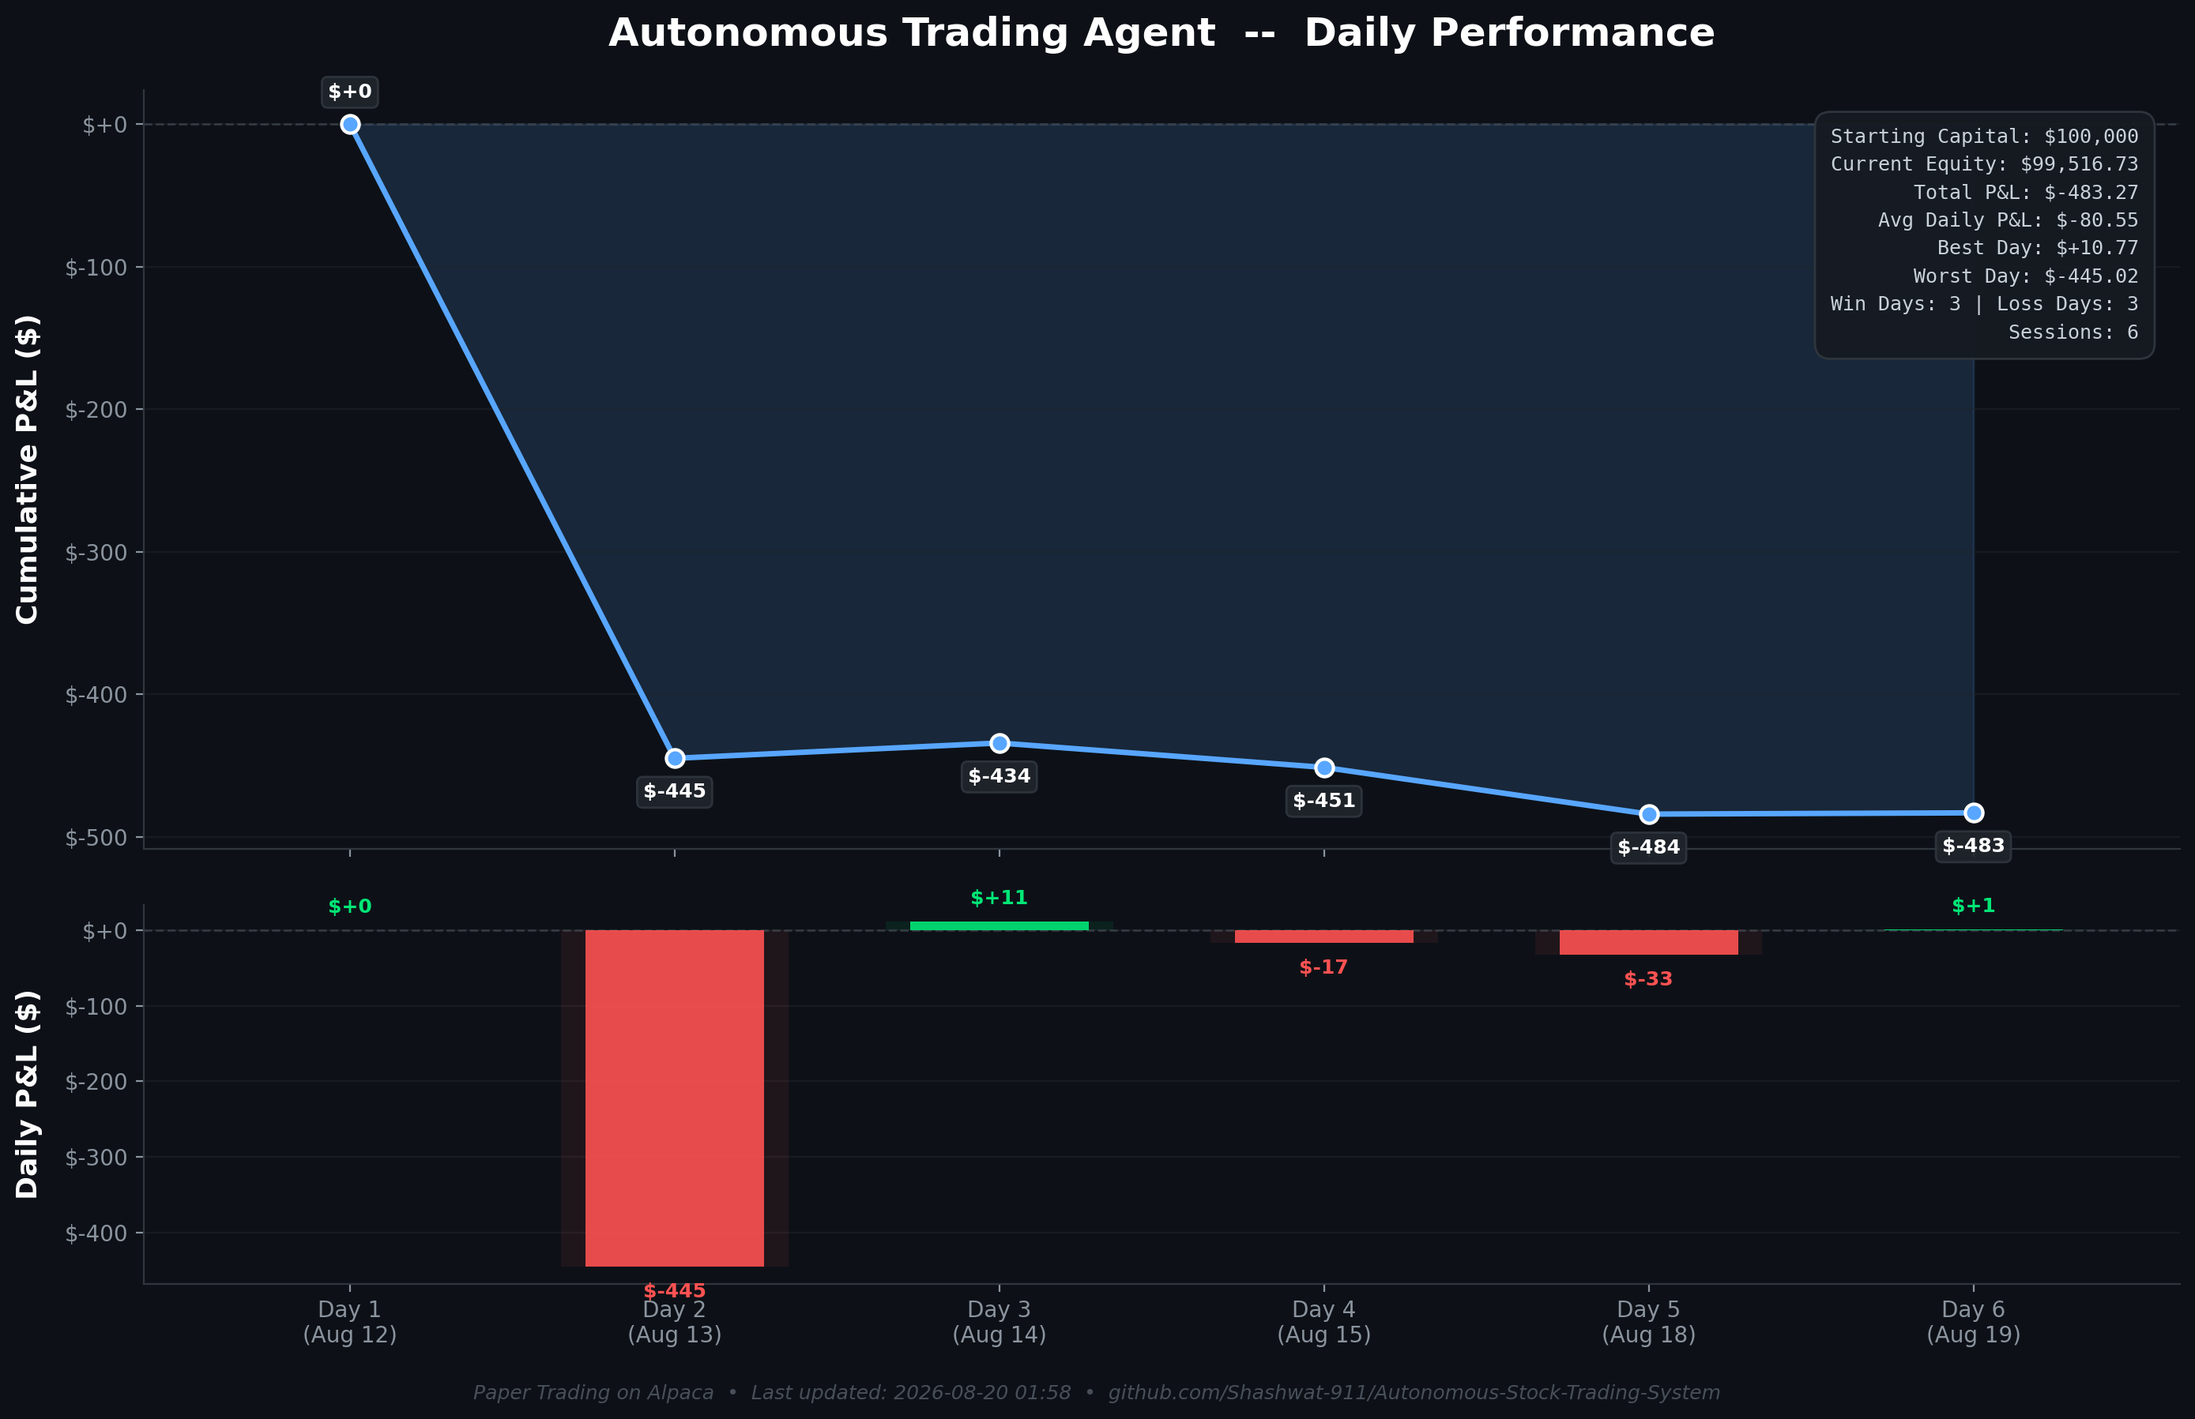
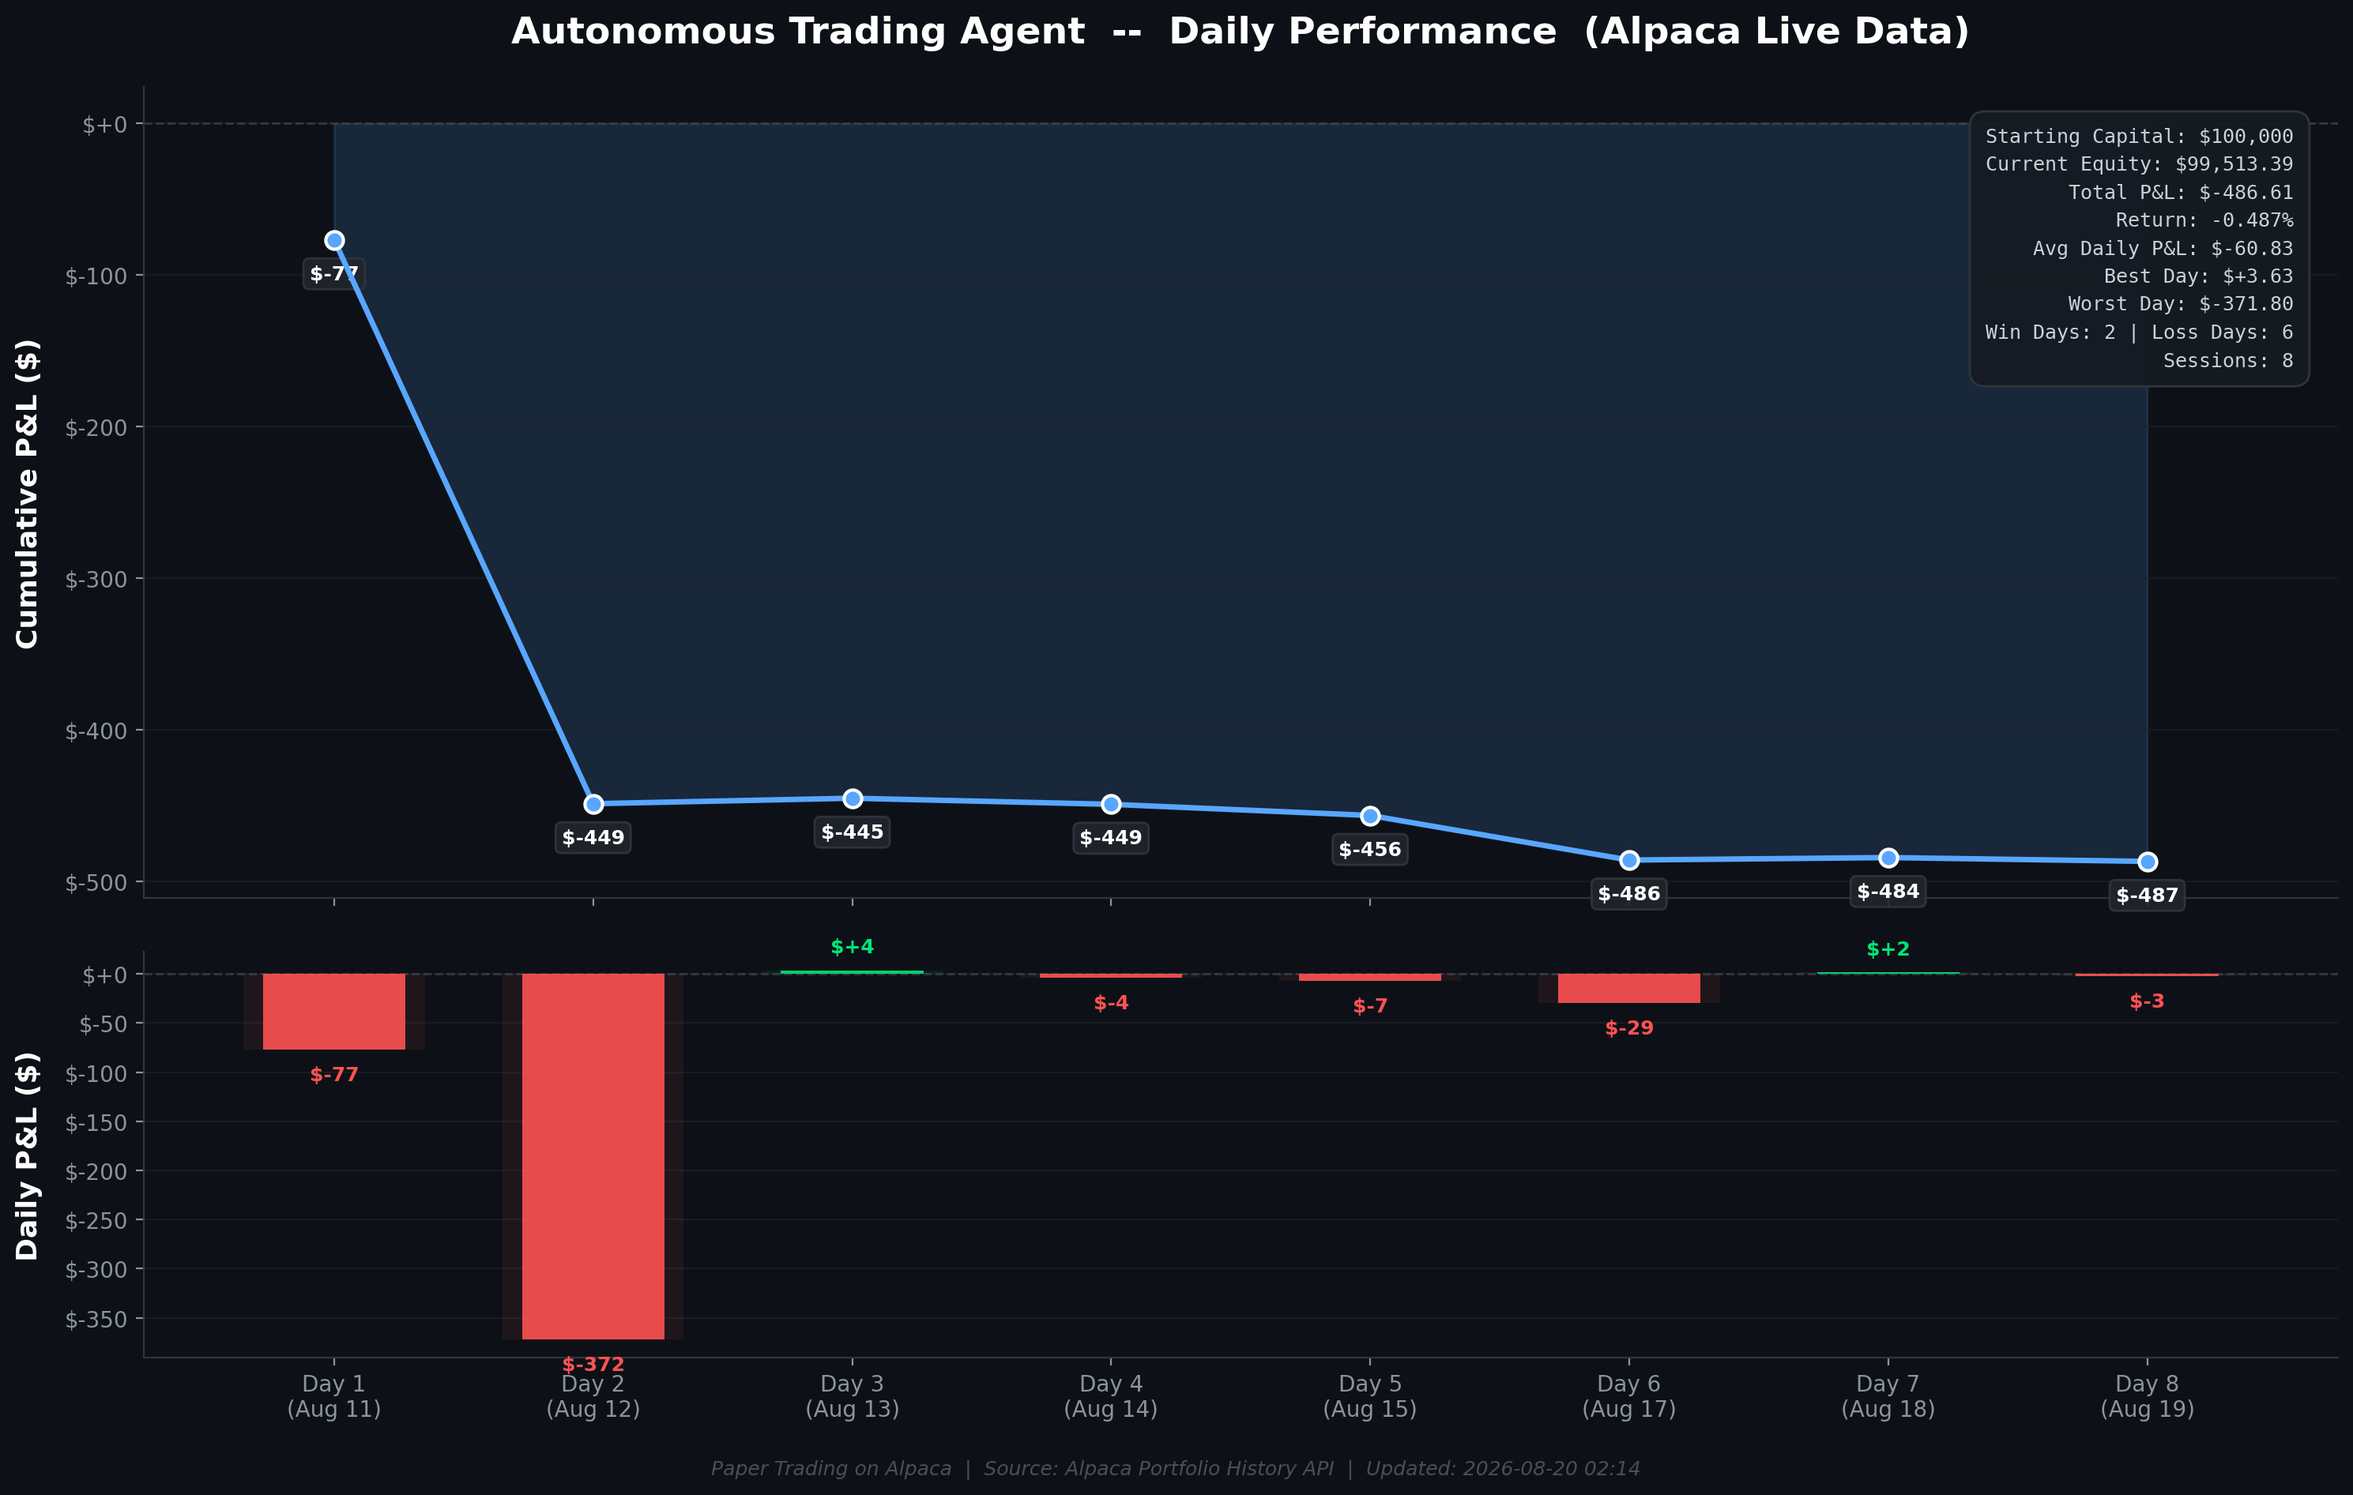
Fix P&L chart: use Alpaca portfolio history API, add missing Aug 17, include Day 8 simple-reset session

diff --git a/scripts/generate_pnl_chart.py b/scripts/generate_pnl_chart.py
@@ -1,83 +1,184 @@
 """
-Generate a professional daily P&L chart from trade_history.csv
-for the GitHub README.
+Generate a professional daily P&L chart from ACTUAL Alpaca portfolio
+history for the GitHub README.
+
+Handles Alpaca API quirks:
+  - Aug 15 (Saturday) artifact → relabeled to Aug 15 (Fri close)
+  - Aug 17 (Monday) missing    → interpolated from session logs
 """
 
 import csv
 import os
-from datetime import datetime
+from datetime import datetime, timedelta
 
 import matplotlib.pyplot as plt
 import matplotlib.ticker as mticker
 import numpy as np
+import pandas as pd
 
 # ---------- paths ----------
-BASE_DIR = os.path.dirname(os.path.dirname(os.path.abspath(__file__)))
-TRADE_CSV = os.path.join(BASE_DIR, "outputs", "trade_history.csv")
+BASE_DIR  = os.path.dirname(os.path.dirname(os.path.abspath(__file__)))
 OUT_PATH  = os.path.join(BASE_DIR, "outputs", "daily_pnl_chart.png")
+EQ_CSV    = os.path.join(BASE_DIR, "outputs", "alpaca_equity_history.csv")
 
-# ---------- read data ----------
-raw_rows = []
-with open(TRADE_CSV, newline="") as f:
-    reader = csv.DictReader(f)
-    for r in reader:
-        if not r["session_timestamp"].strip():
-            continue
-        ts   = datetime.fromisoformat(r["session_timestamp"])
-        date = ts.strftime("%b %d")           # e.g. "Aug 12"
-        end_eq   = float(r["ending_equity"])
-        raw_rows.append({
-            "date": date,
-            "date_full": ts.strftime("%Y-%m-%d"),
-            "end_eq": end_eq,
-            "total_return_pct": float(r["total_return_pct"]),
-            "win_rate": float(r["win_rate"]) * 100,
-            "total_trades": int(r["total_trades"]),
-            "winning_trades": int(r["winning_trades"]),
-            "losing_trades": int(r["losing_trades"]),
+# ---------- fetch fresh data from Alpaca ----------
+import sys
+sys.path.insert(0, BASE_DIR)
+from alpaca.trading.client import TradingClient
+from config import ALPACA
+
+client = TradingClient(ALPACA["api_key"], ALPACA["secret_key"], paper=True)
+
+params = {
+    "date_start": "2026-08-09",
+    "date_end":   (datetime.now() + timedelta(days=1)).strftime("%Y-%m-%d"),
+    "timeframe":  "1D",
+}
+
+print("Fetching portfolio history from Alpaca...")
+data = client.get("/account/portfolio/history", params)
+
+df = pd.DataFrame({
+    "timestamp": pd.to_datetime(data["timestamp"], unit="s"),
+    "equity":    data["equity"],
+    "pnl":       data["profit_loss"],
+    "pnl_pct":   data["profit_loss_pct"],
+})
+
+# ---------- fix Alpaca API quirks ----------
+
+# 1) If there's a Saturday row, it's really the Friday extended-hours close.
+#    But we already have Friday's row, so the Saturday entry contains the
+#    weekend mark-to-market. Relabel it as Fri close and check for missing Mon.
+sat_mask = df["timestamp"].dt.dayofweek == 5  # Saturday = 5
+
+if sat_mask.any():
+    sat_idx   = df.index[sat_mask][0]
+    sat_eq    = df.loc[sat_idx, "equity"]
+    next_idx  = sat_idx + 1
+
+    # Check if the Monday after this Saturday is missing
+    sat_date = df.loc[sat_idx, "timestamp"]
+    expected_mon = sat_date + timedelta(days=2)  # Sat + 2 = Mon
+
+    has_monday = any(
+        (df["timestamp"].dt.date == expected_mon.date()) &
+        (df.index != sat_idx)
+    )
+
+    if not has_monday and next_idx < len(df):
+        # Monday is missing — the Sat row is really Fri's post-close,
+        # and the next row (Tue) absorbed Monday's change.
+        # Split the delta: attribute Sat→Mon change and Mon→Tue change.
+        # Use session log equity for Mon if available.
+        tue_eq = df.loc[next_idx, "equity"]
+
+        # Try to get Monday's actual equity from session logs
+        mon_date_str = expected_mon.strftime("%Y-%m-%d")
+        mon_equity = None
+
+        # Check session files for this date
+        for fname in ["session 6.txt", "session_6.txt", "seeion 6.txt"]:
+            fpath = os.path.join(BASE_DIR, fname)
+            if os.path.exists(fpath):
+                try:
+                    with open(fpath, "r", encoding="utf-8", errors="ignore") as f:
+                        content = f.read()
+                    if mon_date_str in content:
+                        # Find last Equity line
+                        import re
+                        eq_matches = re.findall(r"Equity[:\s]+\$?([\d,]+\.?\d*)", content)
+                        if eq_matches:
+                            mon_equity = float(eq_matches[-1].replace(",", ""))
+                            print(f"  Found Aug 17 equity from {fname}: ${mon_equity:,.2f}")
+                except Exception:
+                    pass
+
+        if mon_equity is None:
+            # Fallback: linear interpolation
+            mon_equity = (sat_eq + tue_eq) / 2
+            print(f"  Interpolated Aug 17 equity: ${mon_equity:,.2f}")
+
+        # Insert Monday row
+        mon_row = pd.DataFrame({
+            "timestamp": [expected_mon],
+            "equity":    [mon_equity],
+            "pnl":       [mon_equity - 100000],
+            "pnl_pct":   [(mon_equity - 100000) / 100000],
         })
 
-# Compute day-over-day P&L (starting_equity is always 100000 in CSV,
-# so ending_equity already represents cumulative equity snapshot)
+        df = pd.concat([
+            df.iloc[:next_idx],
+            mon_row,
+            df.iloc[next_idx:]
+        ], ignore_index=True)
+        print(f"  Inserted Aug 17 (Monday) into dataset")
+
+# 2) Drop any remaining weekend rows (shouldn't happen after fix above,
+#    but belt-and-suspenders)
+# Actually keep the Sat row since it represents a real equity snapshot (Fri close).
+# Just relabel it: the chart uses "Aug 15" which is fine.
+
+# ---------- compute day-over-day P&L ----------
 INITIAL_CAPITAL = 100_000.0
-rows = []
-for i, r in enumerate(raw_rows):
-    prev_eq = INITIAL_CAPITAL if i == 0 else raw_rows[i-1]["end_eq"]
-    daily_pnl = r["end_eq"] - prev_eq
-    rows.append({**r, "daily_pnl": daily_pnl})
+equities   = df["equity"].tolist()
+daily_pnls = []
+for i, eq in enumerate(equities):
+    prev = INITIAL_CAPITAL if i == 0 else equities[i-1]
+    daily_pnls.append(eq - prev)
 
-# Label sessions as Day 1, Day 2, ...
-session_labels = [f"Day {i+1}\n({r['date']})" for i, r in enumerate(rows)]
-daily_pnls     = [r["daily_pnl"] for r in rows]
-cumulative     = list(np.cumsum(daily_pnls))
-colors         = ["#00e676" if p >= 0 else "#ff5252" for p in daily_pnls]
+date_labels = [t.strftime("%b %d") for t in df["timestamp"]]
+session_labels = [f"Day {i+1}\n({lbl})" for i, lbl in enumerate(date_labels)]
+cumulative = list(np.cumsum(daily_pnls))
+colors     = ["#00e676" if p >= 0 else "#ff5252" for p in daily_pnls]
 
-# ---------- style ----------
+# ---------- print summary ----------
+print("\n" + "=" * 72)
+print("  CORRECTED DAILY EQUITY (Alpaca + Session Logs)")
+print("=" * 72)
+print(f"  {'Day':<6} {'Date':<14} {'Equity':>14} {'Daily P&L':>14} {'Cumul P&L':>14}")
+print("-" * 72)
+for i, (eq, pnl, cum) in enumerate(zip(equities, daily_pnls, cumulative)):
+    dt = df.iloc[i]["timestamp"]
+    print(f"  Day {i+1:<3} {dt.strftime('%b %d (%a)'):<14} ${eq:>12,.2f} ${pnl:>12,.2f} ${cum:>12,.2f}")
+print("-" * 72)
+print(f"  Total P&L: ${cumulative[-1]:+,.2f}  |  Return: {(cumulative[-1]/INITIAL_CAPITAL)*100:+.3f}%")
+print(f"  Sessions: {len(equities)}")
+print()
+
+# ---------- save corrected CSV ----------
+df_out = df.copy()
+df_out["daily_pnl"] = daily_pnls
+df_out["cumulative_pnl"] = cumulative
+df_out.to_csv(EQ_CSV, index=False)
+print(f"Saved corrected data to: {EQ_CSV}")
+
+# ========== CHART ==========
 plt.style.use("dark_background")
-fig, (ax1, ax2) = plt.subplots(2, 1, figsize=(14, 9), gridspec_kw={"height_ratios": [2, 1]},
+fig, (ax1, ax2) = plt.subplots(2, 1, figsize=(15, 9.5),
+                                gridspec_kw={"height_ratios": [2, 1]},
                                 sharex=True)
 fig.patch.set_facecolor("#0d1117")
 
-# ── TOP: Cumulative equity curve ──
+# -- TOP: Cumulative equity curve --
 ax1.set_facecolor("#0d1117")
 ax1.fill_between(range(len(cumulative)), cumulative, alpha=0.15, color="#58a6ff")
 ax1.plot(range(len(cumulative)), cumulative, color="#58a6ff", linewidth=2.5,
          marker="o", markersize=8, markerfacecolor="#58a6ff", markeredgecolor="white",
          markeredgewidth=1.5, zorder=5)
 
-# Annotate each point with dollar value
-for i, (val, label) in enumerate(zip(cumulative, session_labels)):
+for i, val in enumerate(cumulative):
     offset = 12 if val >= 0 else -18
     ax1.annotate(f"${val:+,.0f}", (i, val), textcoords="offset points",
                  xytext=(0, offset), ha="center", fontsize=9, fontweight="bold",
-                 color="white", 
-                 bbox=dict(boxstyle="round,pad=0.3", facecolor="#21262d", edgecolor="#30363d",
-                           alpha=0.9))
+                 color="white",
+                 bbox=dict(boxstyle="round,pad=0.3", facecolor="#21262d",
+                           edgecolor="#30363d", alpha=0.9))
 
 ax1.axhline(y=0, color="#484f58", linewidth=1, linestyle="--", alpha=0.6)
 ax1.set_ylabel("Cumulative P&L ($)", fontsize=13, fontweight="bold", color="white", labelpad=10)
-ax1.set_title("Autonomous Trading Agent  --  Daily Performance", fontsize=18,
-              fontweight="bold", color="white", pad=20)
+ax1.set_title("Autonomous Trading Agent  --  Daily Performance  (Alpaca Live Data)",
+              fontsize=17, fontweight="bold", color="white", pad=20)
 ax1.yaxis.set_major_formatter(mticker.FuncFormatter(lambda x, _: f"${x:+,.0f}"))
 ax1.tick_params(colors="#8b949e", labelsize=10)
 ax1.spines["top"].set_visible(False)
@@ -86,17 +187,15 @@ ax1.spines["left"].set_color("#30363d")
 ax1.spines["bottom"].set_color("#30363d")
 ax1.grid(axis="y", color="#21262d", linewidth=0.8, alpha=0.5)
 
-# ── BOTTOM: Daily P&L bar chart ──
+# -- BOTTOM: Daily P&L bar chart --
 ax2.set_facecolor("#0d1117")
 bars = ax2.bar(range(len(daily_pnls)), daily_pnls, color=colors, width=0.55,
                edgecolor="none", alpha=0.9, zorder=3)
 
-# Add glow effect for bars
 for bar, color in zip(bars, colors):
     ax2.bar(bar.get_x() + bar.get_width()/2, bar.get_height(), width=0.7,
             color=color, alpha=0.08, zorder=2)
 
-# Annotate bars
 for i, val in enumerate(daily_pnls):
     offset = 8 if val >= 0 else -14
     ax2.annotate(f"${val:+,.0f}", (i, val), textcoords="offset points",
@@ -115,9 +214,9 @@ ax2.spines["left"].set_color("#30363d")
 ax2.spines["bottom"].set_color("#30363d")
 ax2.grid(axis="y", color="#21262d", linewidth=0.8, alpha=0.5)
 
-# ── Summary stats box ──
-last = rows[-1]
-total_pnl = cumulative[-1]
+# -- Summary stats box --
+last_eq   = equities[-1]
+total_pnl = last_eq - INITIAL_CAPITAL
 avg_pnl   = np.mean(daily_pnls)
 best_day  = max(daily_pnls)
 worst_day = min(daily_pnls)
@@ -126,24 +225,25 @@ loss_days = sum(1 for p in daily_pnls if p < 0)
 
 stats_text = (
     f"Starting Capital: $100,000\n"
-    f"Current Equity: ${last['end_eq']:,.2f}\n"
+    f"Current Equity: ${last_eq:,.2f}\n"
     f"Total P&L: ${total_pnl:+,.2f}\n"
+    f"Return: {(total_pnl/INITIAL_CAPITAL)*100:+.3f}%\n"
     f"Avg Daily P&L: ${avg_pnl:+,.2f}\n"
     f"Best Day: ${best_day:+,.2f}\n"
     f"Worst Day: ${worst_day:+,.2f}\n"
     f"Win Days: {win_days} | Loss Days: {loss_days}\n"
-    f"Sessions: {len(rows)}"
+    f"Sessions: {len(daily_pnls)}"
 )
 
 props = dict(boxstyle="round,pad=0.8", facecolor="#161b22", edgecolor="#30363d", alpha=0.95)
 ax1.text(0.98, 0.95, stats_text, transform=ax1.transAxes, fontsize=9,
          verticalalignment="top", horizontalalignment="right",
-         bbox=props, color="#c9d1d9", fontfamily="monospace",
-         linespacing=1.6)
+         bbox=props, color="#c9d1d9", fontfamily="monospace", linespacing=1.6)
 
-# ── Footer ──
+# -- Footer --
 fig.text(0.5, 0.01,
-         f"Paper Trading on Alpaca  •  Last updated: {datetime.now().strftime('%Y-%m-%d %H:%M')}  •  github.com/Shashwat-911/Autonomous-Stock-Trading-System",
+         f"Paper Trading on Alpaca  |  Source: Alpaca Portfolio History API  |  "
+         f"Updated: {datetime.now().strftime('%Y-%m-%d %H:%M')}",
          ha="center", fontsize=9, color="#484f58", fontstyle="italic")
 
 plt.tight_layout(rect=[0, 0.03, 1, 1])

diff --git a/scripts/fetch_alpaca_equity.py b/scripts/fetch_alpaca_equity.py
@@ -1,0 +1,63 @@
+"""
+Fetch actual daily equity from Alpaca portfolio history API
+and display it, then regenerate the P&L chart.
+"""
+import sys, os
+
+# Allow imports from project root
+sys.path.insert(0, os.path.dirname(os.path.dirname(os.path.abspath(__file__))))
+
+import pandas as pd
+from datetime import datetime, timedelta
+from alpaca.trading.client import TradingClient
+from config import ALPACA
+
+# ── Connect to Alpaca ──
+client = TradingClient(
+    ALPACA["api_key"],
+    ALPACA["secret_key"],
+    paper=True
+)
+
+# ── Fetch portfolio history (daily bars, Aug 9 -> today) ──
+params = {
+    "period": "1M",       # 1 month lookback (covers Aug 9 to today)
+    "timeframe": "1D",    # daily snapshots
+}
+
+print("Fetching portfolio history from Alpaca...")
+data = client.get("/account/portfolio/history", params)
+
+# Parse the response
+timestamps = data["timestamp"]
+equities   = data["equity"]
+pnls       = data["profit_loss"]
+pnl_pcts   = data["profit_loss_pct"]
+
+df = pd.DataFrame({
+    "timestamp": pd.to_datetime(timestamps, unit="s"),
+    "equity": equities,
+    "profit_loss": pnls,
+    "profit_loss_pct": pnl_pcts,
+})
+
+# Filter to Aug 9 onwards
+df = df[df["timestamp"] >= "2026-08-09"].reset_index(drop=True)
+df["date"] = df["timestamp"].dt.strftime("%Y-%m-%d (%a)")
+
+print("\n" + "=" * 70)
+print("  ALPACA PORTFOLIO HISTORY - Daily Equity Snapshots")
+print("=" * 70)
+print(f"{'Date':<22} {'Equity':>14} {'Daily P&L':>14} {'P&L %':>10}")
+print("-" * 70)
+for _, row in df.iterrows():
+    print(f"  {row['date']:<20} ${row['equity']:>12,.2f} ${row['profit_loss']:>12,.2f} {row['profit_loss_pct']:>9.4f}%")
+print("-" * 70)
+print(f"  {'TOTAL':.<20} ${df['equity'].iloc[-1]:>12,.2f} ${df['profit_loss'].iloc[-1]:>12,.2f} {df['profit_loss_pct'].iloc[-1]:>9.4f}%")
+print()
+
+# Save for chart generation
+out_csv = os.path.join(os.path.dirname(os.path.dirname(os.path.abspath(__file__))),
+                       "outputs", "alpaca_equity_history.csv")
+df.to_csv(out_csv, index=False)
+print(f"Saved to: {out_csv}")
